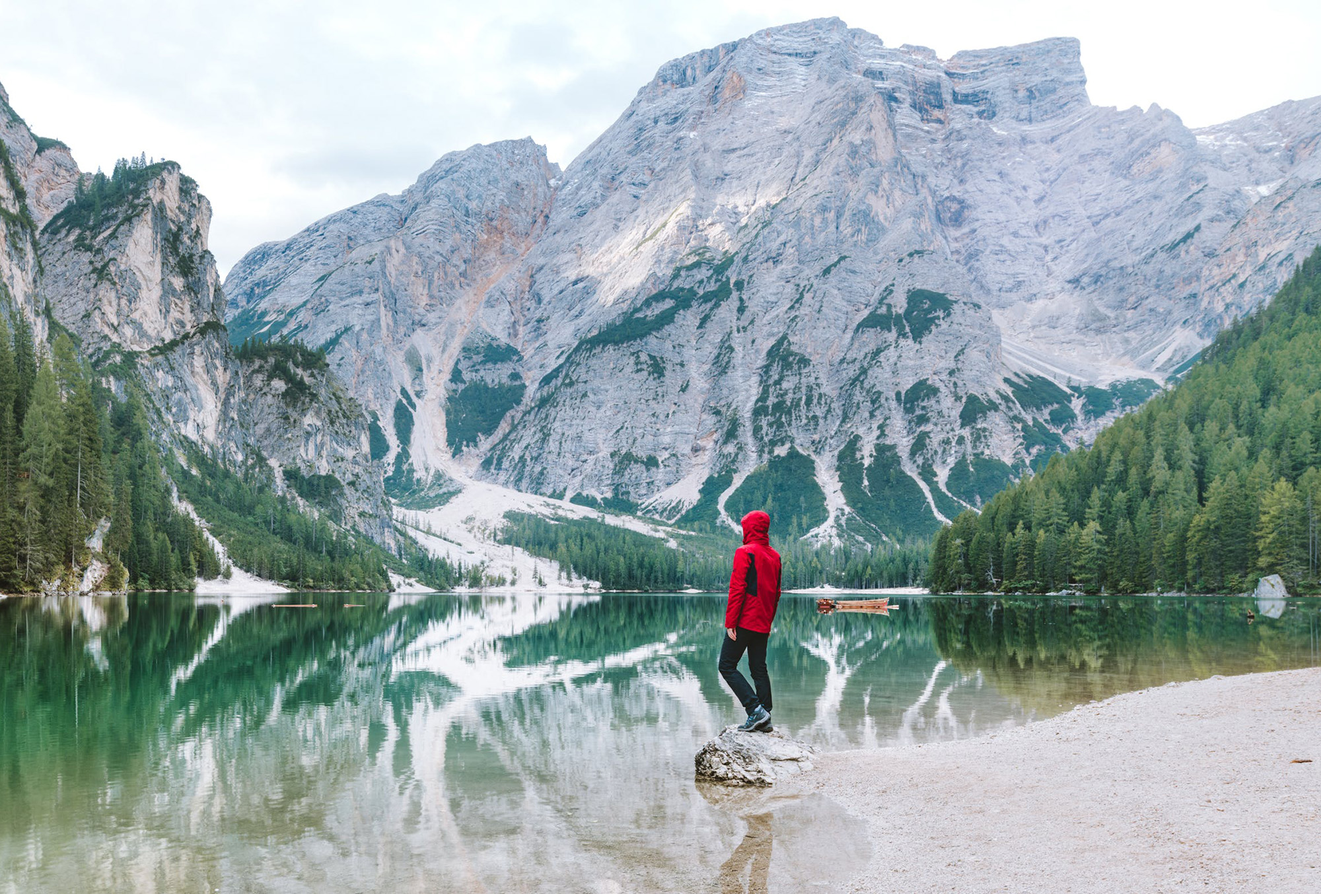
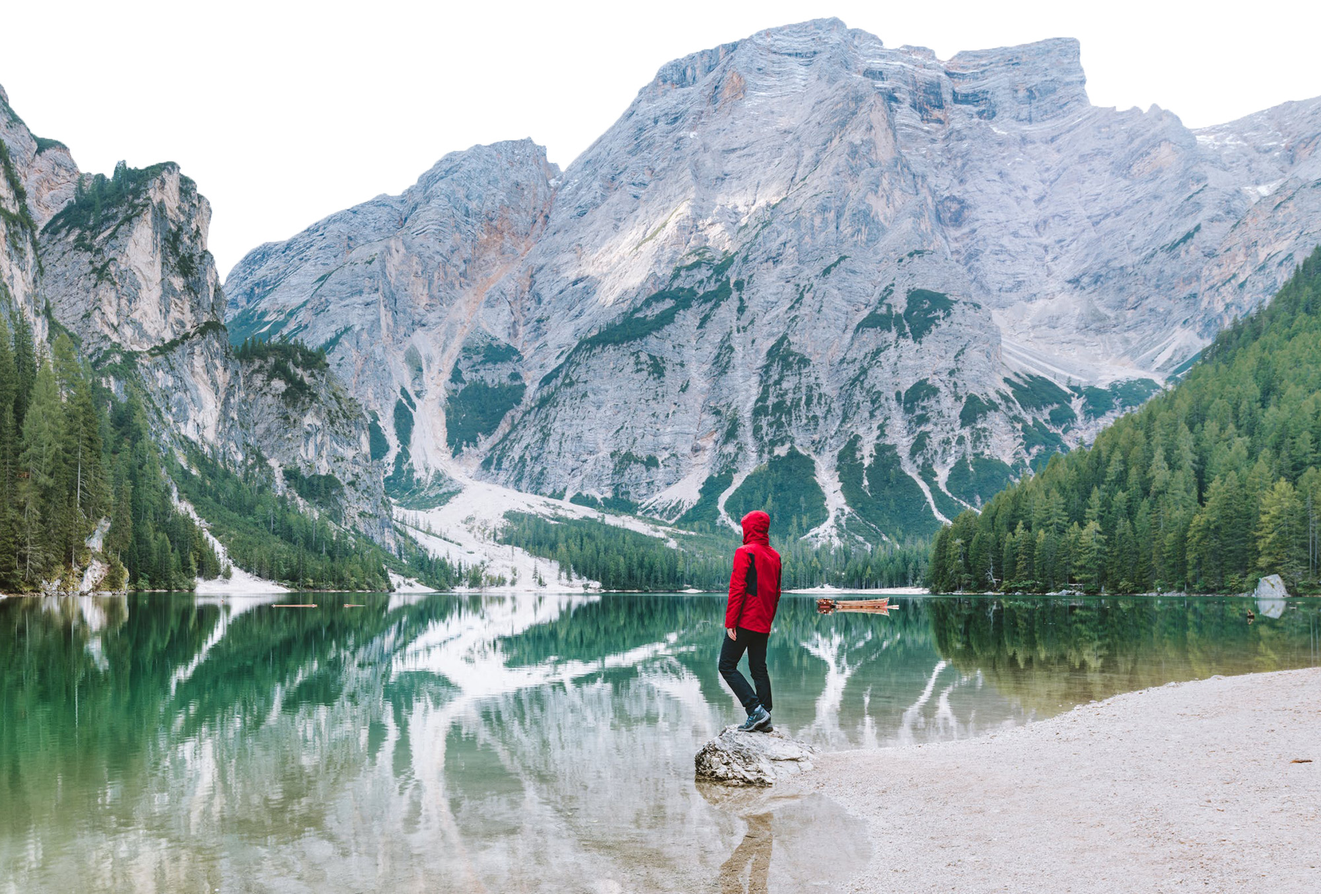
update

diff --git a/Public/styles.css b/Public/styles.css
@@ -190,6 +190,7 @@ position: absolute;
     top: 50%;
     left: 50%;
     transform: translate(-50%, -50%);
+    opacity: 80%;
     object-fit: cover;
 }
 
@@ -549,7 +550,7 @@ p.hero-tekst {
 }
 
 .hero-content {
-  padding: 25px 25px 0px 25px;
+  padding: 20px 25px 0px 25px;
   background-color: #FFFF;
 }
 
